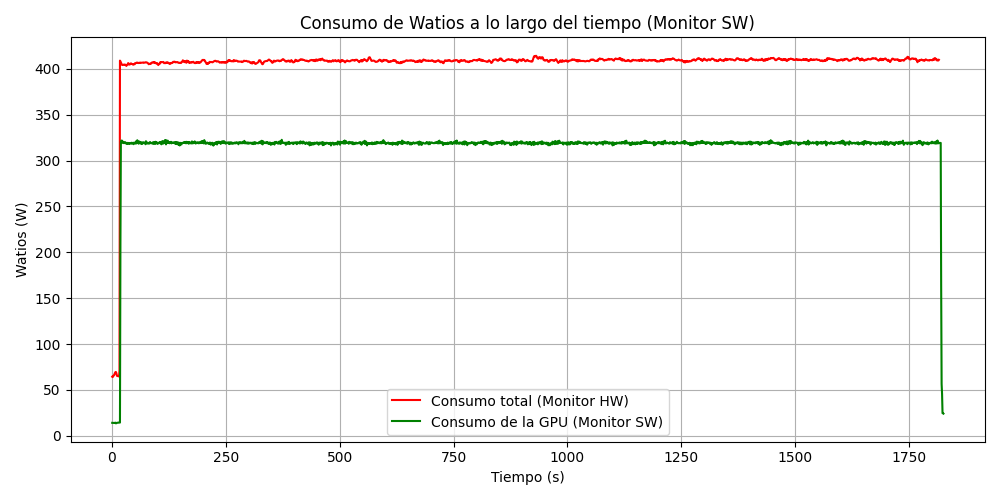
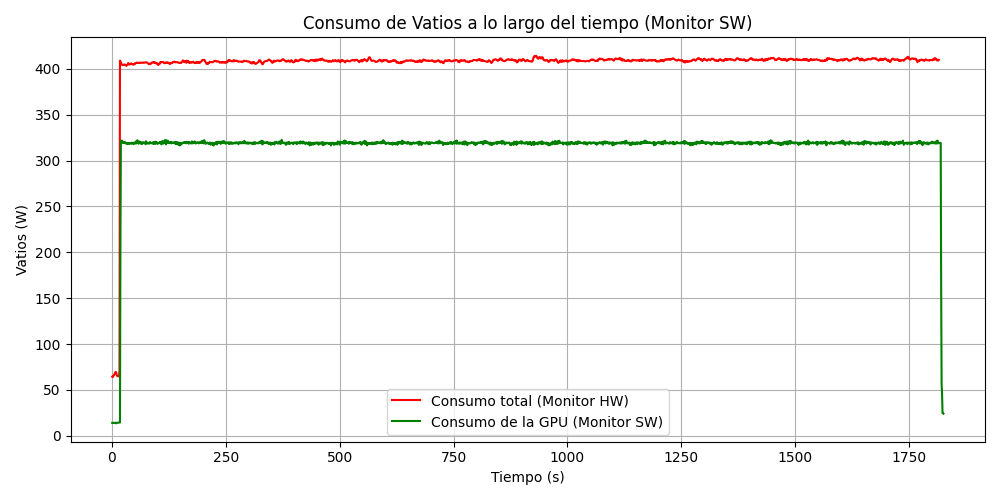
Actualización del diario

Changed region(s): [[0.279, 0.03, 0.775, 0.06], [0.0, 0.39, 0.031, 0.57]]

diff --git a/plt_pwr.py b/plt_pwr.py
@@ -36,8 +36,8 @@ def main():
     plt.plot(df_sw["t_seconds"], df_sw["W"], linewidth=1.5, color="green", label="Consumo de la GPU (Monitor SW)")
     plt.legend()
     plt.xlabel("Tiempo (s)")
-    plt.ylabel("Watios (W)")
-    plt.title("Consumo de Watios a lo largo del tiempo (Monitor SW)")
+    plt.ylabel("Vatios (W)")
+    plt.title("Consumo de Vatios a lo largo del tiempo (Monitor SW)")
     plt.grid(True)
     plt.tight_layout()
     plt.savefig('Plots/Plot_power_consumption.png')
